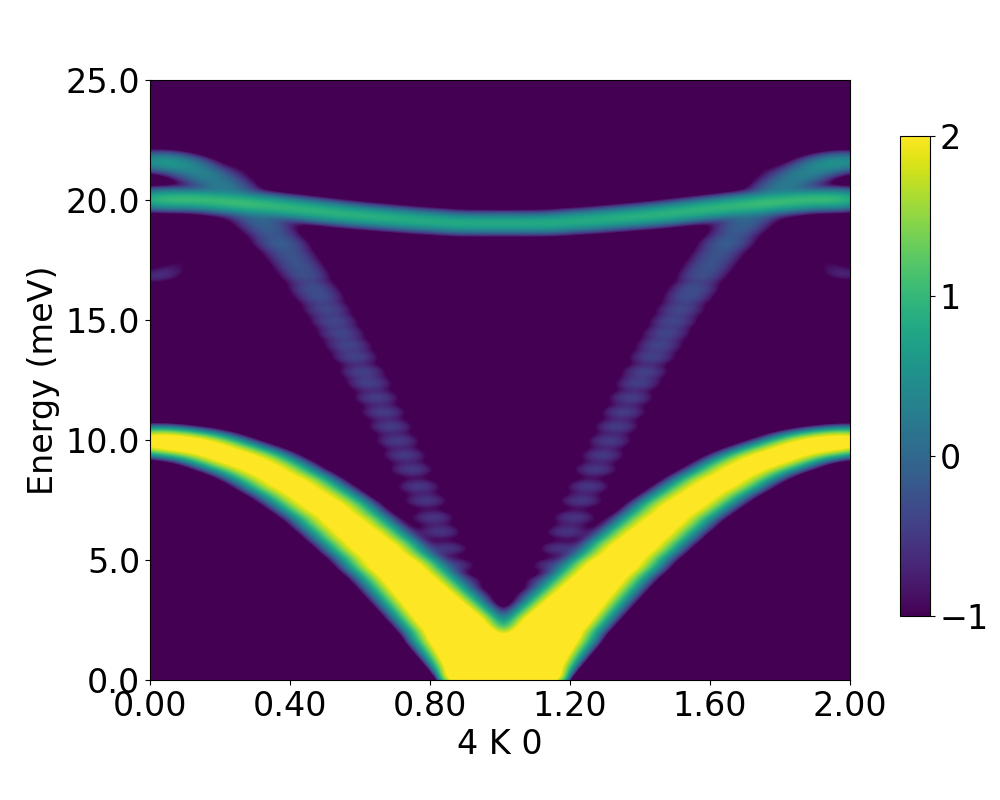
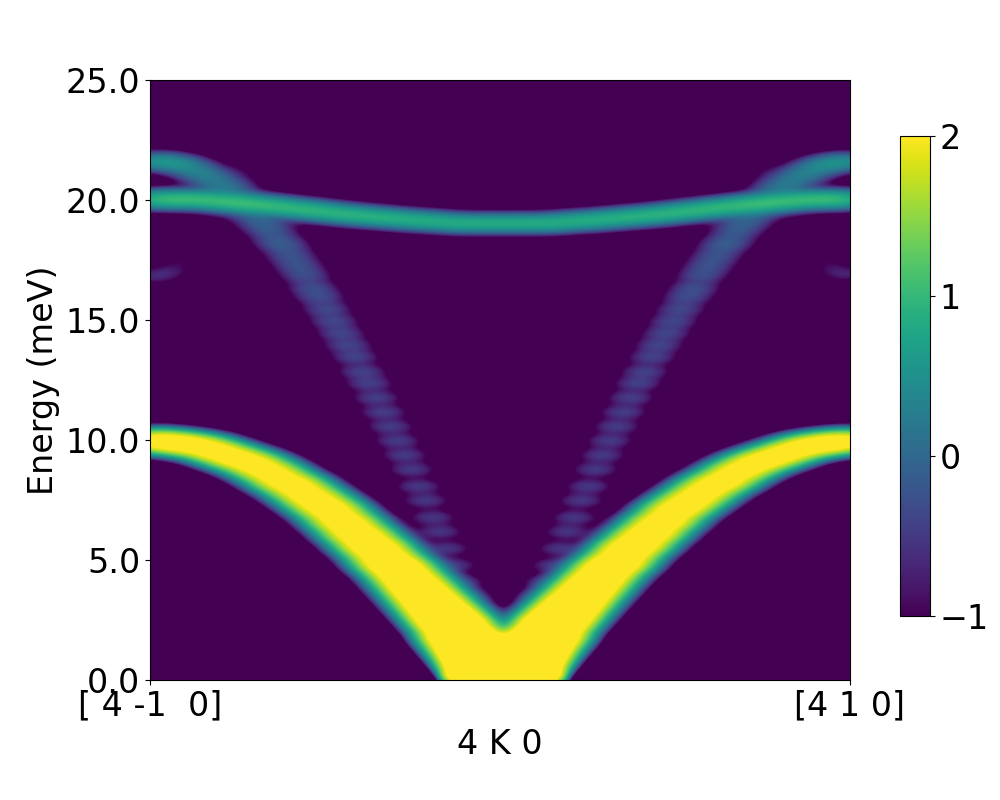
change plotting settings

diff --git a/SQE_simple.py b/SQE_simple.py
@@ -30,7 +30,8 @@ xlabels = '4 K 0'
 savefigas = '4K0_noborn.png'
 colormax = 2
 colormin = -1
-broadening_factor = 2 ## I'm using a gaussian filter to do 2D broadening. 1/2 is good number 
+broadening_factor = 2 ## I'm using a gaussian filter to do 2D broadening. 1/2 is good number
+num_ybins = 6 ## number of yticks 
 #### END OF USER INPUTS ####
 
 ## The script below are mainly copied from Phonopy website
@@ -190,12 +191,14 @@ if __name__ == '__main__':
     q_range = q_end-q_start
     index = np.nonzero(q_range)
     x_max = q_range[index[0][0]]
-    xticks = np.linspace(0,x_max,6)
-    fmt = lambda x: "{:.2f}".format(x) # the function to only keep two digits
-    ax.set_xticks(xpos)
-    ax.set_xticklabels([fmt(i) for i in xticks])
+    #xticks = np.linspace(0,x_max,6)
+    #fmt = lambda x: "{:.2f}".format(x) # the function to only keep two digits
+    #ax.set_xticks(xpos)
+    #ax.set_xticklabels([fmt(i) for i in xticks])
+    ax.set_xticks([0,nql-1])
+    ax.set_xticklabels([q_start,q_end])
  
-    ybin_num = 6 
+    ybin_num = num_ybins
     ypos = np.linspace(0,ne,ybin_num)
     yticks = np.linspace(MinimumEnergy,MaximumEnergy,ybin_num)
     fmt = lambda x: "{:.1f}".format(x) # the function to only keep two digits
